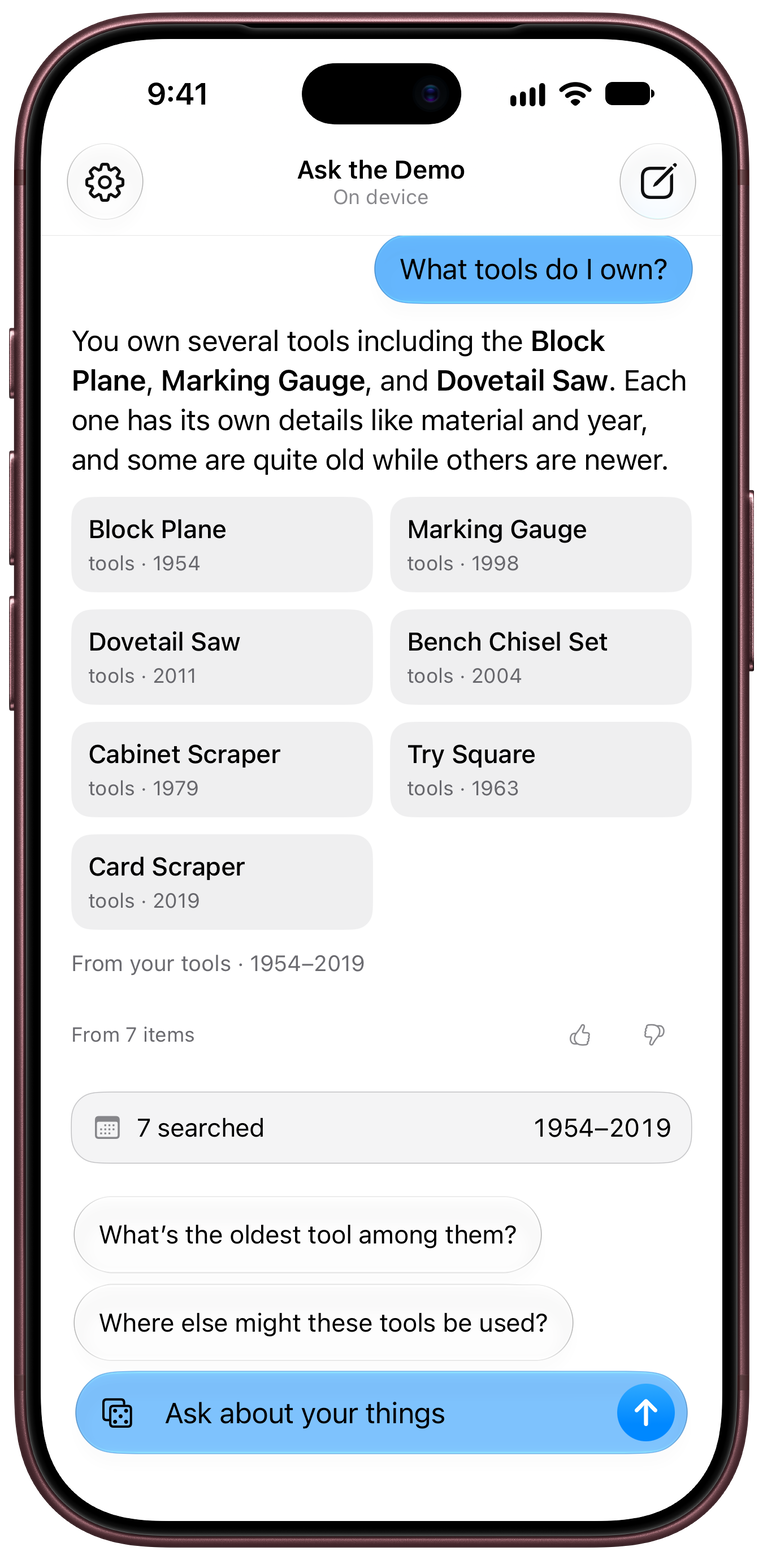
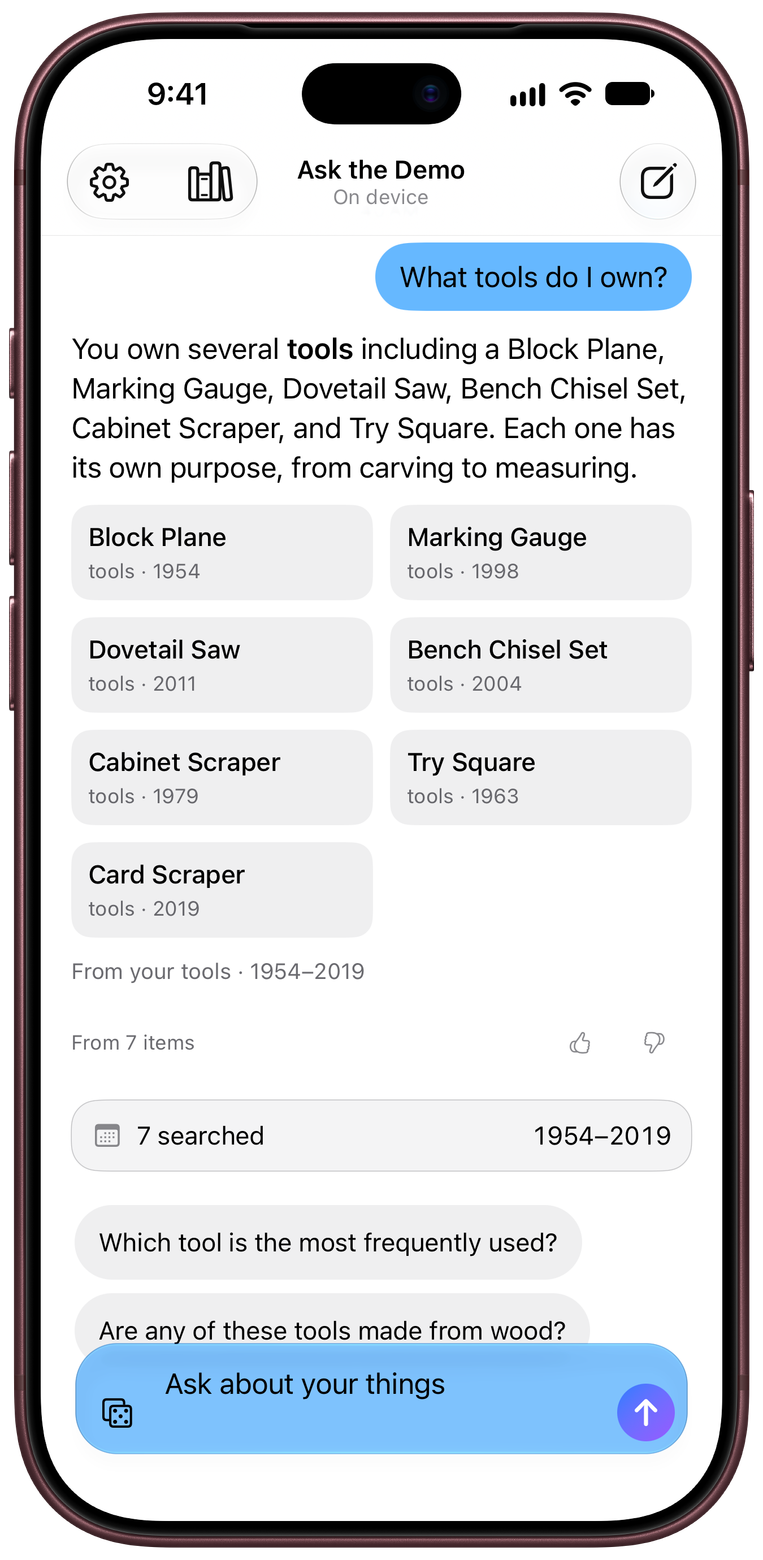
The README's iPhone and Vision Pro shots are retaken with the domain switch
Both are live on-device answers on the library, with tips hidden. The Vision
Pro image is cut out with its title menu, which now holds the switch, and
its width in the README moves to 33% so the three images stand the same
height. The Mac shot is unchanged: the Mac was locked.

diff --git a/README.md b/README.md
@@ -13,9 +13,9 @@
 [![License: MIT](https://img.shields.io/badge/license-MIT-green)](LICENSE)
 
 <p align="center">
-  <img src="docs/images/iphone.png" width="12%" alt="The Ask screen on iPhone: the question &quot;What tools do I own?&quot; answered in two sentences, with seven tiles of the tools it read, an evidence line reading &quot;From 7 items&quot;, two follow-up suggestions and the composer at the bottom">
+  <img src="docs/images/iphone.png" width="12%" alt="The Ask screen on iPhone, titled &quot;Ask the Demo&quot;, with the settings and the switch between the demo's domains beside the title: the question &quot;What tools do I own?&quot; answered in two sentences, with seven tiles of the tools it read, an evidence line reading &quot;From 7 items&quot;, two follow-up suggestions and the composer at the bottom">
   <img src="docs/images/mac.png" width="38%" alt="The Ask screen in a Mac window: the question &quot;What tools do I own?&quot; answered with seven tiles of tools, an evidence line, two follow-up suggestions and the composer">
-  <img src="docs/images/vision.png" width="43%" alt="The Ask screen in an Apple Vision Pro window: the question &quot;What clothes do I own?&quot; answered with seven tiles of clothes, an evidence line, two follow-up suggestions and the composer">
+  <img src="docs/images/vision.png" width="33%" alt="The Ask screen in an Apple Vision Pro window, under its title &quot;Ask the Demo&quot;, which opens the switch between the demo's domains: the question &quot;What clothes do I own?&quot; answered with seven tiles of clothes, an evidence line, two follow-up suggestions and the composer">
 </p>
 
 AskKit is a complete Ask screen over Apple's Foundation Models, for any kind of app. A reader asks in their own words and gets a short answer: from your app's data, through the tools your app gives the model, or from the model alone where your app allows it. When a tool proposes an action, such as adding a reminder or changing a setting, the reader confirms it on a card before your app carries it out. Private Cloud Compute writes the answer when it can serve, and the on-device model when it can't. Your app implements one protocol, `AskDomain`, which gives the model its tools and instructions and says which answers are kept, and AskKit supplies the engine (`AskCore`) and the SwiftUI screen (`AskUI`).

diff --git a/CHANGELOG.md b/CHANGELOG.md
@@ -33,9 +33,8 @@ both kinds) is a breaking change, allowed in a 0.x minor version, because it sto
 - **The assistant's bar holds the settings and the domain switch, as the library's does**, with its
   title centred. The bell that listed the reminders the reader added is gone: they are a Reminders
   section of the settings card. "Ask the Assistant" is the assistant's title again, measured centred
-  and whole on an iPhone 18 Pro both at rest and while typing. The README's screenshots are retaken on
-  the demo's two domains: the iPhone and visionOS on the library, the Mac on the assistant's reminder
-  card. No API changes.
+  and whole on an iPhone 18 Pro both at rest and while typing. The README's iPhone and Apple Vision
+  Pro screenshots are retaken with the domain switch in them. No API changes.
 
 ### Fixed
 
